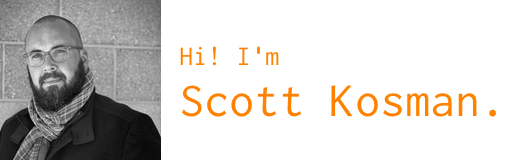
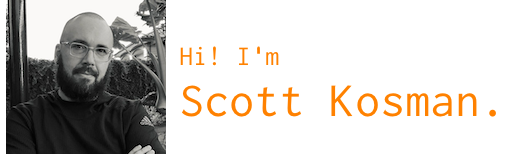
update photo, change URL to scottkosman.com, remove exos

Changed region(s): [[0.0, 0.0, 0.3378, 1.0]]

diff --git a/source/ui.js b/source/ui.js
@@ -17,16 +17,12 @@ const handleSelect = (item) => {
 
 const items = [
 	{
-		label: 'Exos - where I work',
-		url: 'https://teamexos.com',
-	},
-	{
 		label: 'Some more info about me',
-		url: 'https://prayingmadness.com',
+		url: 'https://scottkosman.com',
 	},
 	{
 		label: 'How To Scott - useful reading if you currently do or someday want to work for/with me',
-		url: 'https://prayingmadness.com/post/readme/',
+		url: 'https://scottkosman.com/post/readme/',
 	},
 	{
 		label: 'LinkedIn - feel free to join my Professional Network™!',
@@ -46,7 +42,7 @@ const items = [
 	},
 	{
 		label: 'CV - see what I used to do',
-		url: 'https://prayingmadness.com/skosman_resume2022.pdf',
+		url: 'https://scottkosman.com/skosman_resume2022.pdf',
 	},
 	{
 		label: '---------'
@@ -63,7 +59,7 @@ module.exports = () => (
 	<div>
 		<br />
 		<div>
-			<Text>Toronto-based Engineering Manager at Exos, 20 year vet of the technology, marketing, and digital strategy world. A recovering front-end developer who pivoted to management back in 2014, I now enjoy leading teams building the next generation of stuff you do on this "internet" thing. He/him.</Text>
+			<Text>Toronto-based Engineering Manager and technical leader, 20 year vet of the technology, marketing, and digital strategy world. A recovering front-end developer who pivoted to management back in 2014, I now enjoy leading teams building the next generation of stuff you do on this "internet" thing. He/him.</Text>
 		</div>
 		<br />
 		<SelectInput items={items} onSelect={handleSelect} />
